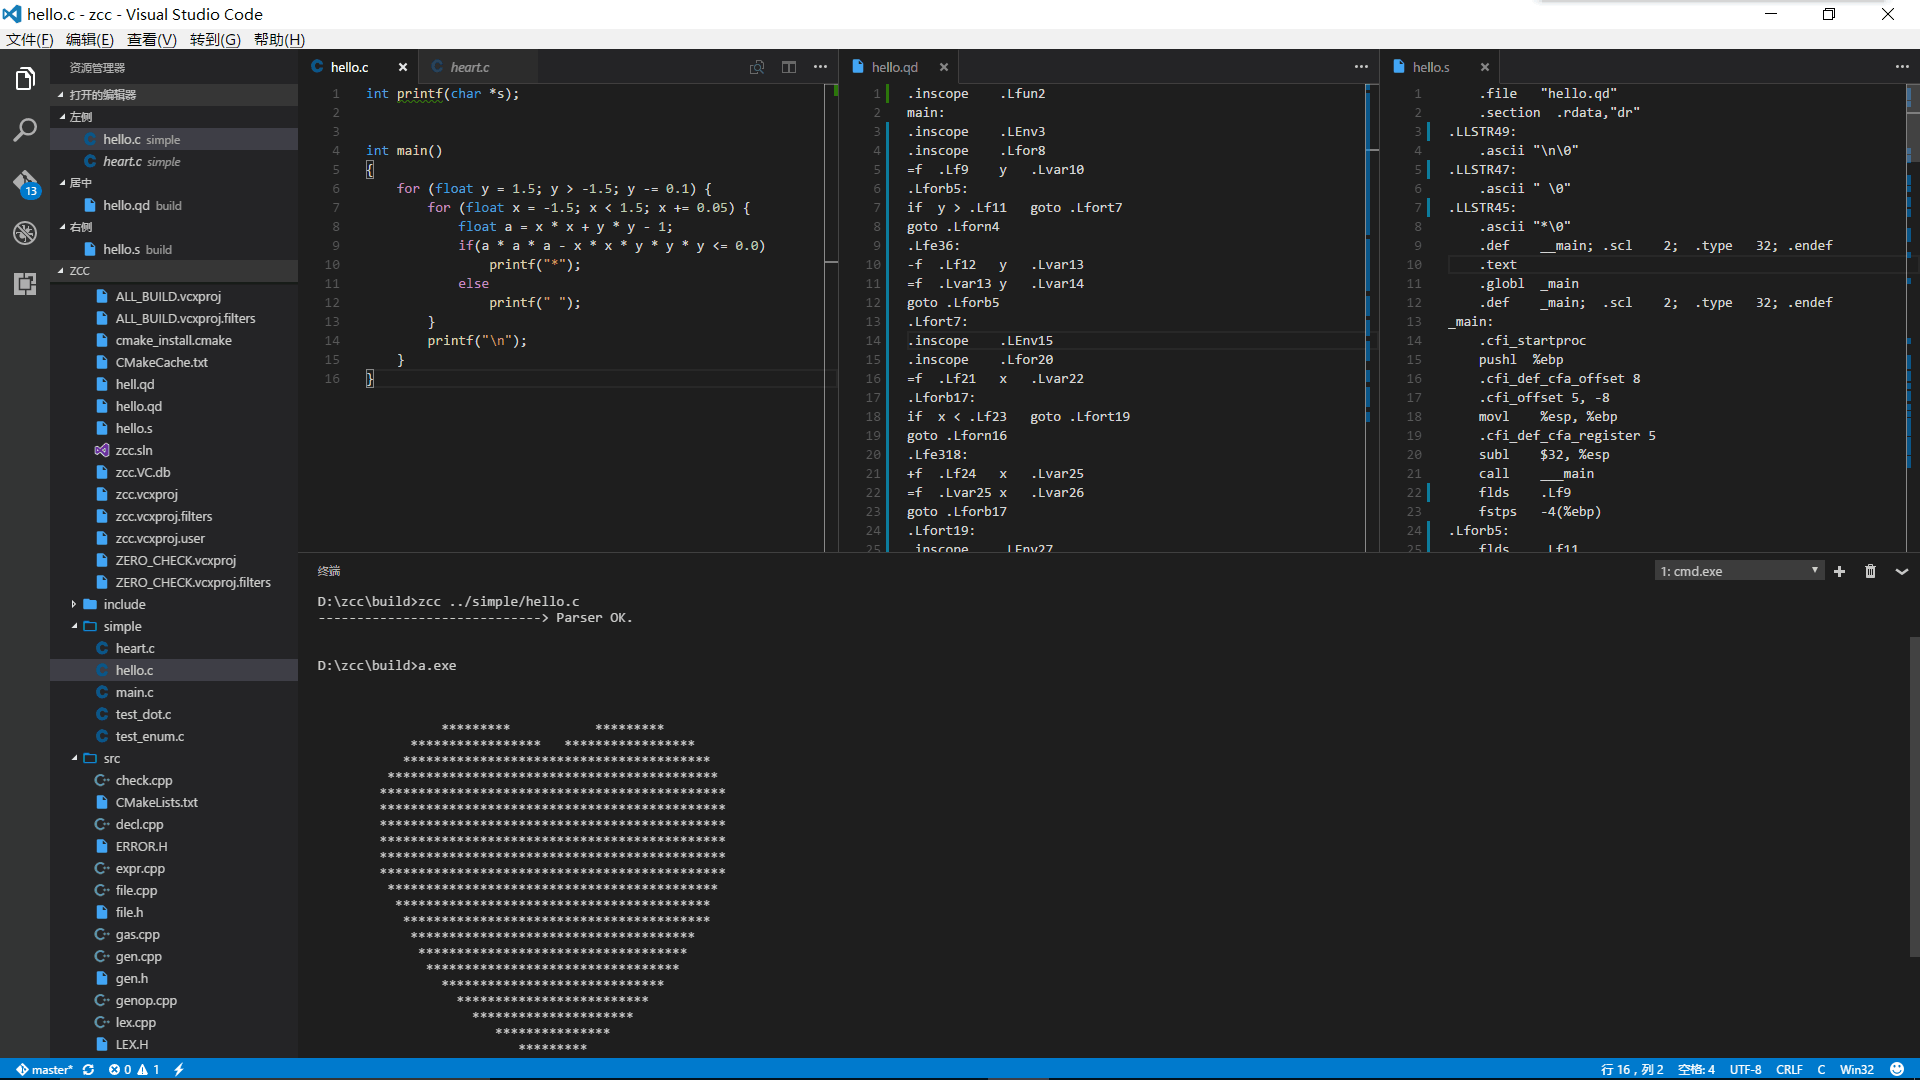
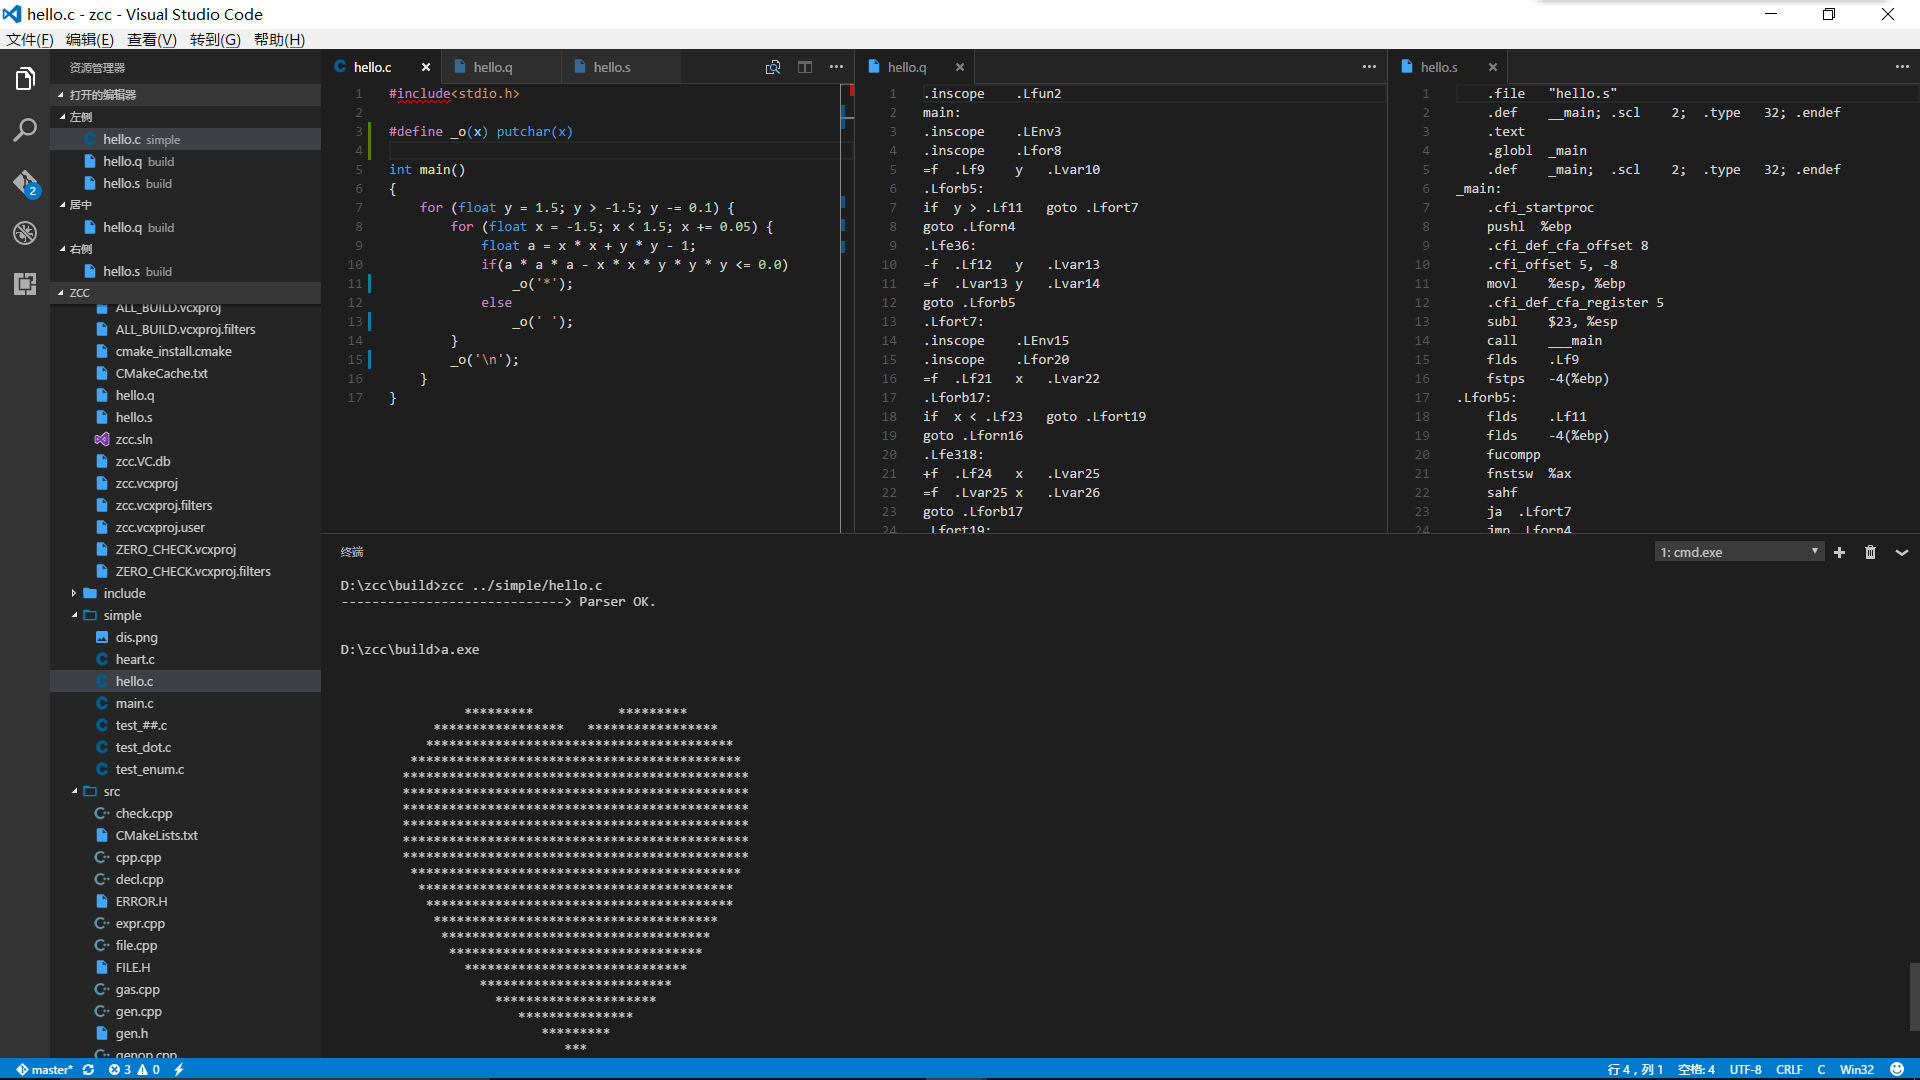
readme

diff --git a/simple/hello.c b/simple/hello.c
@@ -1,15 +1,17 @@
 #include<stdio.h>
 
+#define _o(x) putchar(x)
+
 int main() 
 {
     for (float y = 1.5; y > -1.5; y -= 0.1) {
         for (float x = -1.5; x < 1.5; x += 0.05) {
             float a = x * x + y * y - 1;
             if(a * a * a - x * x * y * y * y <= 0.0)
-                putchar('*');
+                _o('*');
             else 
-                putchar(' ');
+                _o(' ');
         }
-        putchar('\n');
+        _o('\n');
     }
 }

diff --git a/README.md b/README.md
@@ -13,8 +13,11 @@
 ### 2.0 预处理器
 ```
         include 
-        define(暂不支持#和##)
+        define
+        undef
+        宏展开
 
+部分支持：
         ifndef
         ifdef
         endif
